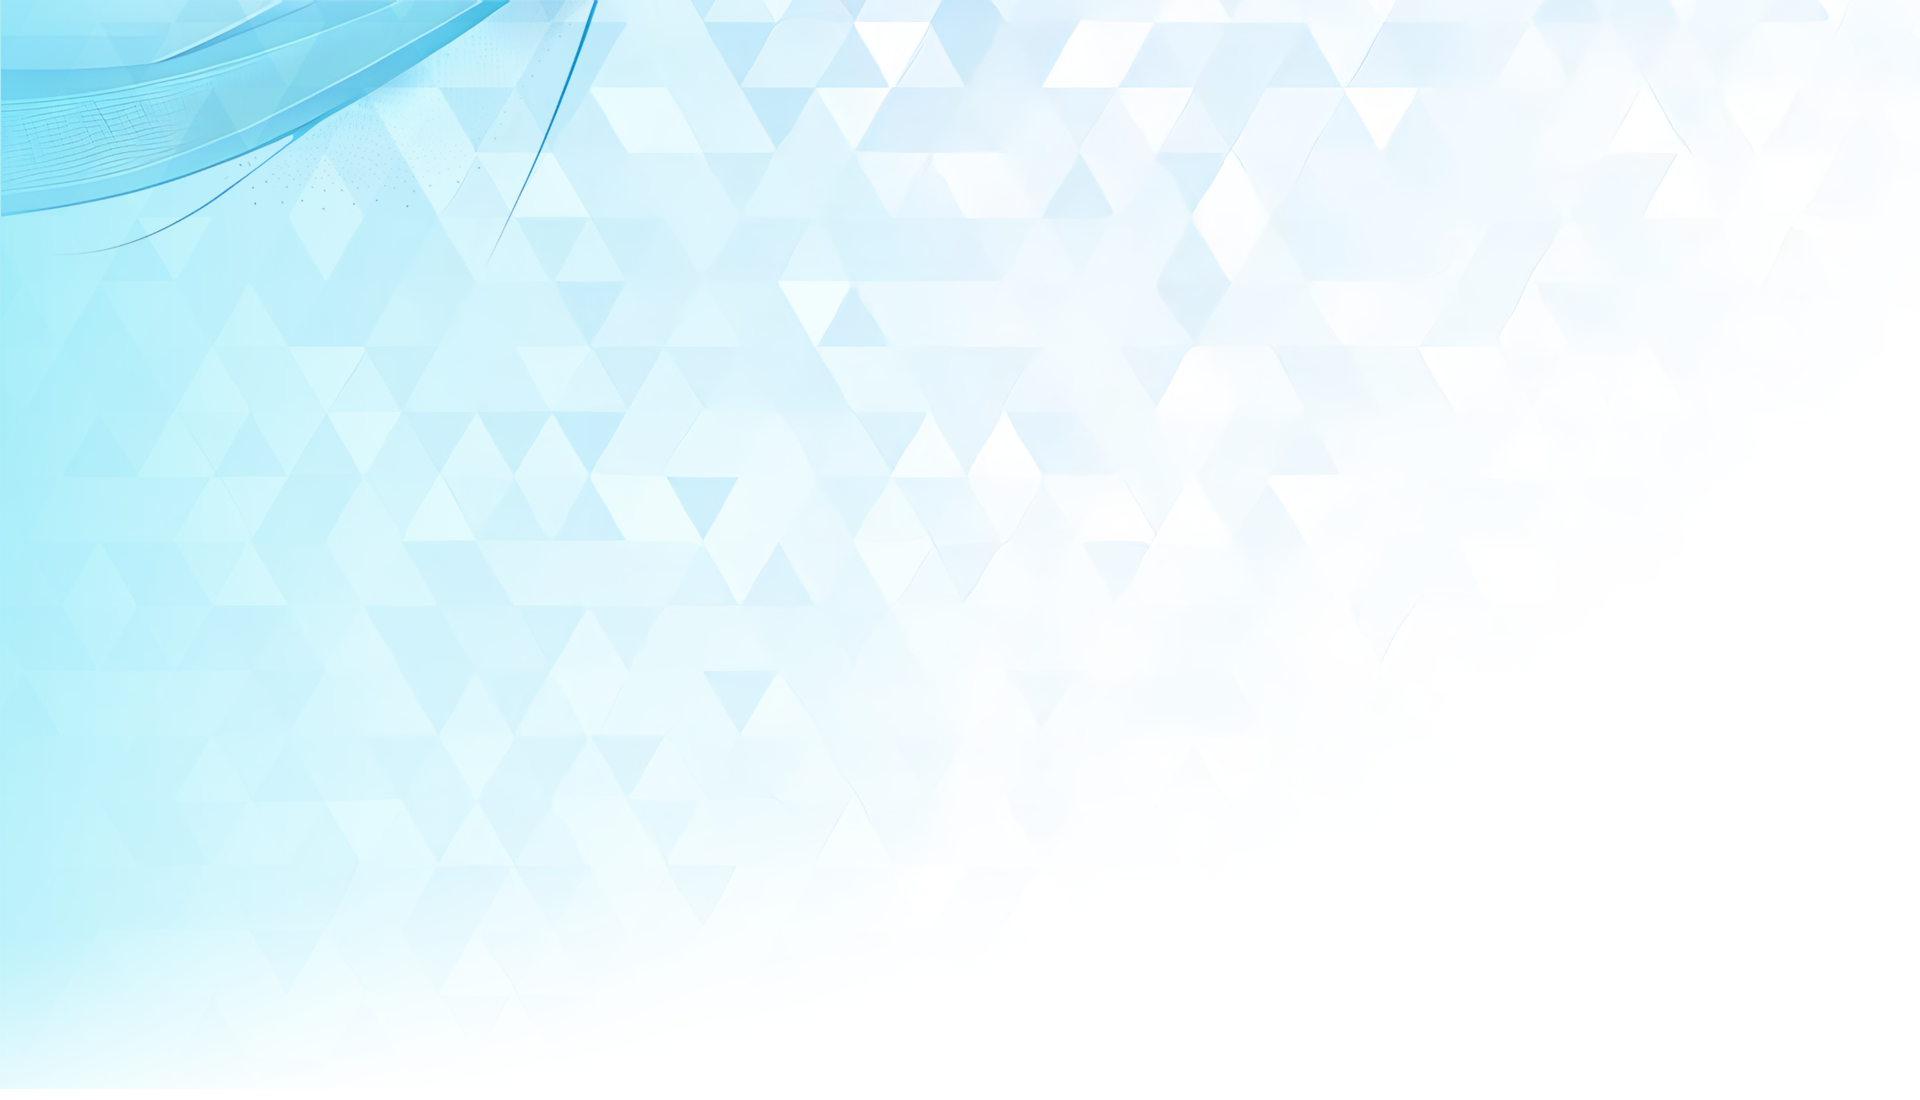
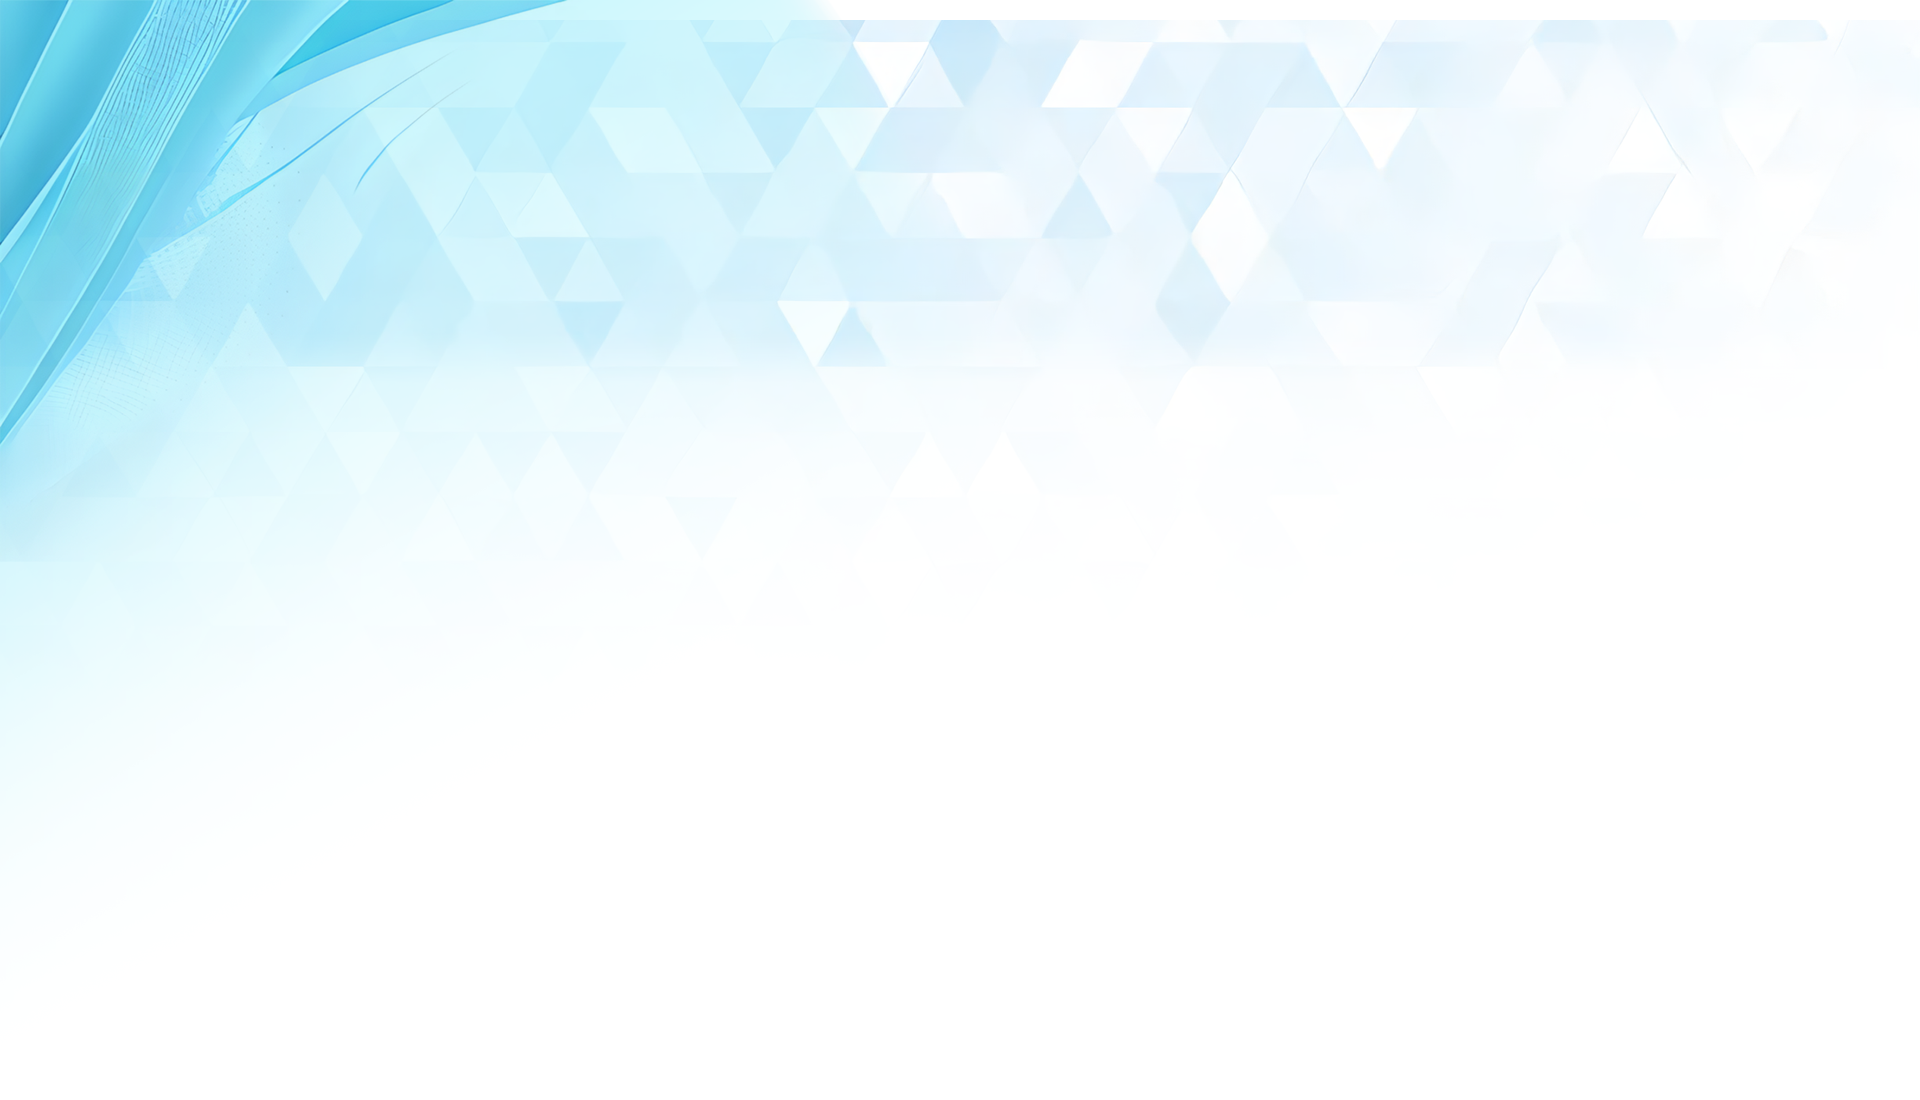
delete img and add lazy import

diff --git a/frontend/src/App.tsx b/frontend/src/App.tsx
@@ -1,30 +1,22 @@
-import { useEffect, useState } from 'react';
-
+import { useEffect, useState, Suspense, lazy } from 'react';
 import { Routes, Route, BrowserRouter, Navigate } from 'react-router-dom';
 
-import BlogSection from './HomePage/BlogSection';
-import LoginForm from './HomePage/LoginForm';
-import Register from './HomePage/RegisterForm';
 import Footer from './HomePage/Footer';
 import HomeNavBar from './HomePage/Navbar';
 import NotFoundPage from './NotFoundPage';
-import PatientRoutes from './Routes/PatientRoutes';
-import DoctorRoutes from './Routes/DoctorRoutes';
-import AdminRoutes from './Routes/AdminRoutes';
-import About from './About';
-
-
-
-import './css/App.css';
-import {jwtDecode} from 'jwt-decode';
+import { jwtDecode } from 'jwt-decode';
 import { BackendUrlProvider } from './BackendUrlContext';
 import ErrorBoundary from './ErrorBoundary';
+import './css/App.css';
 
-
-/*App component sets up the main structure of your React application
- incorporating routing, user authentication, and various routes for different user roles. 
-*/
-
+// Lazy load components
+const BlogSection = lazy(() => import('./HomePage/BlogSection'));
+const LoginForm = lazy(() => import('./HomePage/LoginForm'));
+const Register = lazy(() => import('./HomePage/RegisterForm'));
+const PatientRoutes = lazy(() => import('./Routes/PatientRoutes'));
+const DoctorRoutes = lazy(() => import('./Routes/DoctorRoutes'));
+const AdminRoutes = lazy(() => import('./Routes/AdminRoutes'));
+const About = lazy(() => import('./About'));
 
 function App() {
   const [showLoginPopup, setShowLoginPopup] = useState(false);
@@ -43,7 +35,6 @@ function App() {
     return '';
   });
 
-  //Watches changes in userToken to decode the JWT token and update userRole
   useEffect(() => {
     if (userToken) {
       try {
@@ -54,8 +45,6 @@ function App() {
       }
     }
   }, [userToken]);
-
-
 
   const [userName, setUserName] = useState<string>(() => {
     const usernameInfo = localStorage.getItem('userinfo');
@@ -81,26 +70,28 @@ function App() {
   return (
     <BackendUrlProvider>
       <BrowserRouter>
-      <ErrorBoundary>
-          <HomeNavBar setShowLoginPopup={setShowLoginPopup} setUserName={setUserName} setUserToken={setUserToken} userToken={userToken} userName={userName} role={userRole} setRole={setUserRole} subId={subId}  />
-          <Routes>
-            <Route path="/patient/*" element={<PatientRoutes userRole={userRole} />} />
-            <Route path="/doctor/*" element={<DoctorRoutes userRole={userRole} />} />
-            <Route path="/admin/*" element={<AdminRoutes userRole={userRole} subID={subId} />} />
-            <Route
-              path="/"
-              element={
-                <div className='main-div'>
-                  <BlogSection />
-                  <Footer />
-                </div>
-              }
-            />
-            <Route path="/register" element={<Register />} />
-            <Route path="/about" element={<About />} />
-            <Route path="/404" element={<NotFoundPage userRole={userRole} />} />
-            <Route path="*" element={<Navigate to="/404" />} />
-          </Routes>
+        <ErrorBoundary>
+          <HomeNavBar setShowLoginPopup={setShowLoginPopup} setUserName={setUserName} setUserToken={setUserToken} userToken={userToken} userName={userName} role={userRole} setRole={setUserRole} subId={subId} />
+          <Suspense fallback={<div>Loading...</div>}>
+            <Routes>
+              <Route path="/patient/*" element={<PatientRoutes userRole={userRole} />} />
+              <Route path="/doctor/*" element={<DoctorRoutes userRole={userRole} />} />
+              <Route path="/admin/*" element={<AdminRoutes userRole={userRole} subID={subId} />} />
+              <Route
+                path="/"
+                element={
+                  <div className='main-div'>
+                    <BlogSection />
+                    <Footer />
+                  </div>
+                }
+              />
+              <Route path="/register" element={<Register />} />
+              <Route path="/about" element={<About />} />
+              <Route path="/404" element={<NotFoundPage userRole={userRole} />} />
+              <Route path="*" element={<Navigate to="/404" />} />
+            </Routes>
+          </Suspense>
           {showLoginPopup && <LoginForm show={showLoginPopup} setShow={setShowLoginPopup} setUserToken={setUserToken} setUserName={setUserName} />}
         </ErrorBoundary>
       </BrowserRouter>

diff --git a/frontend/src/DoctorComponents/DoctorHomePage.tsx b/frontend/src/DoctorComponents/DoctorHomePage.tsx
@@ -41,8 +41,8 @@ function DoctorHomePage() {
     
     return (
         <>
-        <div className="container">
-            
+        <div className="tab-main-container">
+            <div className='tab-container'>
                     <Tabs id="uncontrolled-tab-example" className="custom-tabs">
                         <Tab eventKey="home" title="Open Appointments" className='tabs'>
                             <AddApointment doctorId={doctorId} onSuccess={refreshAppointments} />
@@ -72,6 +72,7 @@ function DoctorHomePage() {
                             />
                         </Tab>
                     </Tabs>
+                </div>
                 </div>
                 
                 </>

diff --git a/frontend/src/Patient/PatientHomePage.tsx b/frontend/src/Patient/PatientHomePage.tsx
@@ -42,8 +42,8 @@ function HomePagePatient() {
 
     return (
         <>
-        <div className="container" style={{marginTop: '300px'}}>
-            <div className="row">
+        <div className="tab-main-container">
+            <div className='tab-container'>
             <Tabs id="uncontrolled-tab-example" className="custom-tabs">
                 <Tab eventKey="searchDoctor" title="Search Doctor" className='tabs'>
                     <SearchDoctors 

diff --git a/frontend/src/css/newLogin.css b/frontend/src/css/newLogin.css
@@ -90,10 +90,12 @@
   label input[name="password"] {
     -webkit-text-security: disc;
     background-color: white;
+    color: black;
   }
   
   label input[name="username"] {
     background-color: white;
+    color: black;
   }
 
   input[name="show-password"]:checked ~ div label input[name="password"] {

diff --git a/frontend/index.css b/frontend/index.css
@@ -82,3 +82,13 @@
     flex-direction: column;
     min-height: 100vh;
   }
+
+  input[type="text"] {
+    background-color: white;
+    color: black;
+  }
+
+  select {
+    background-color: white;
+    color: black;
+  }

diff --git a/frontend/src/css/Tabs.css b/frontend/src/css/Tabs.css
@@ -16,7 +16,7 @@
 }
 
 .tab-main-container {
-  background-image: url('/img/test_s.png');
+  background-image: url('/img/Second_Page.png');
   background-size: cover;
   width: 100%;
   height: 100%;
